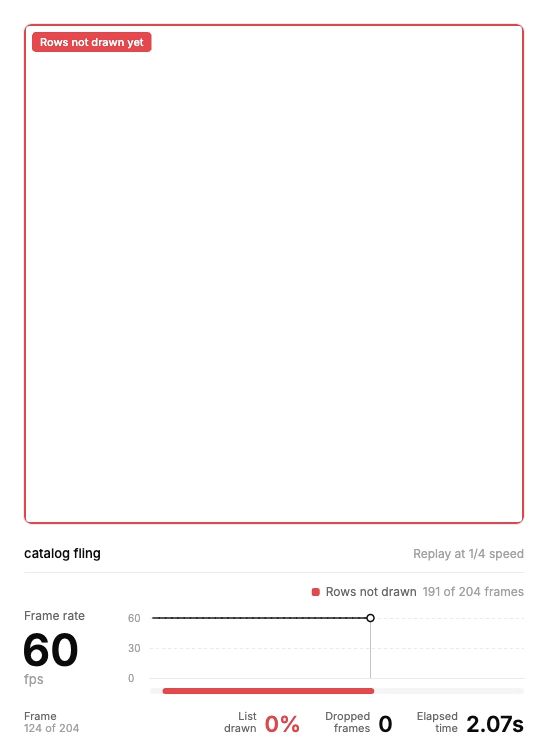
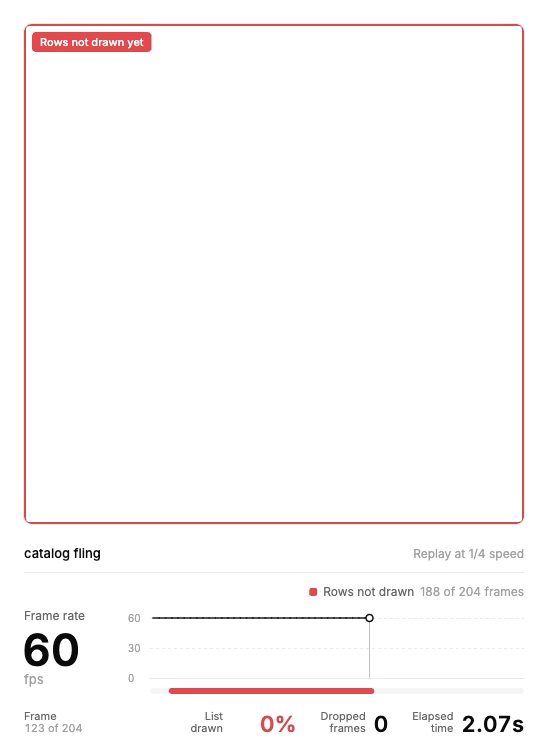
Replay readouts: tabular digits in fixed slots, so they don't shift as they change
Canvas text has no font-variant-numeric, so each digit is drawn in a cell
the width of a zero, and each stat's value sits in a slot as wide as its
largest value in the run. The labels stay put as the numbers change.

diff --git a/src/replay/encode.ts b/src/replay/encode.ts
@@ -91,6 +91,38 @@ async function renderInPage(args: ReplayInput & { slowdown: number; keyEvery: nu
     g.fillText(s, x, y);
     return g.measureText(s).width;
   };
+  // Numbers with every digit in a cell the width of a zero, like CSS's tabular-nums (canvas text
+  // has no such setting), so a readout doesn't shift as its digits change. A figure space
+  // (U+2007) is a blank digit.
+  const isDigit = (ch: string) => (ch >= '0' && ch <= '9') || ch === '\u2007';
+  const numWidth = (s: string, size: number, weight: number) => {
+    g.font = `${weight} ${size}px ${sans}`;
+    const cell = g.measureText('0').width;
+    return [...s].reduce((w, ch) => w + (isDigit(ch) ? cell : g.measureText(ch).width), 0);
+  };
+  const num = (
+    s: string,
+    x: number,
+    y: number,
+    { size = 12, weight = 400, fill = c.muted, align = 'left' as 'left' | 'right' } = {},
+  ) => {
+    const w = numWidth(s, size, weight);
+    const cell = g.measureText('0').width;
+    g.fillStyle = fill;
+    let cx = align === 'right' ? x - w : x;
+    for (const ch of s) {
+      if (isDigit(ch)) {
+        g.textAlign = 'center';
+        g.fillText(ch, cx + cell / 2, y);
+        cx += cell;
+      } else {
+        g.textAlign = 'left';
+        g.fillText(ch, cx, y);
+        cx += g.measureText(ch).width;
+      }
+    }
+    return w;
+  };
   const fit = (s: string, max: number) => {
     if (g.measureText(s).width <= max) return s;
     while (s.length > 1 && g.measureText(s + '…').width > max) s = s.slice(0, -1);
@@ -257,7 +289,7 @@ async function renderInPage(args: ReplayInput & { slowdown: number; keyEvery: nu
     const chartH = 60;
     const chartBottom = chartTop + chartH;
     text('Frame rate', left, chartTop + 2, { fill: c.muted });
-    text(fps === null ? '–' : String(fps), left - 2, chartTop + 48, {
+    num(fps === null ? '–' : String(fps), left - 2, chartTop + 48, {
       size: 44,
       weight: 600,
       fill: droppingNow ? c.bad : c.ink,
@@ -359,27 +391,36 @@ async function renderInPage(args: ReplayInput & { slowdown: number; keyEvery: nu
     // dropped frames and elapsed time, each with its label over two lines to its left. The
     // frame number is on the left of the same line.
     const statY = strip ? y + 38 : y + 50;
-    const stats: { words: [string, string]; value: string; bad?: boolean }[] = [];
+    // Each value sits in a slot as wide as its largest value in the run, so labels stay put.
+    const stats: { words: [string, string]; value: string; widest: string; bad?: boolean }[] = [];
     if (blankCount > 0)
-      stats.push({ words: ['List', 'drawn'], value: `${Math.round(drawn * 100)}%`, bad: blank });
-    stats.push({ words: ['Dropped', 'frames'], value: String(droppedSoFar), bad: droppedSoFar > 0 });
-    stats.push({ words: ['Elapsed', 'time'], value: secs(now) });
+      stats.push({
+        words: ['List', 'drawn'],
+        value: `${Math.round(drawn * 100)}%`,
+        widest: '100%',
+        bad: blank,
+      });
+    stats.push({
+      words: ['Dropped', 'frames'],
+      value: String(droppedSoFar),
+      widest: String(droppedBetween(-1, total)),
+      bad: droppedSoFar > 0,
+    });
+    stats.push({ words: ['Elapsed', 'time'], value: secs(now), widest: secs(total) });
     let sx2 = right;
     for (const st of [...stats].reverse()) {
-      const w = text(st.value, sx2, statY, {
-        size: 22,
-        weight: 600,
-        fill: st.bad ? c.bad : c.ink,
-        align: 'right',
-      });
-      const lx = sx2 - w - 8;
+      num(st.value, sx2, statY, { size: 22, weight: 600, fill: st.bad ? c.bad : c.ink, align: 'right' });
+      const lx = sx2 - numWidth(st.widest, 22, 600) - 8;
       text(st.words[0], lx, statY - 12, { size: 11, fill: c.muted, align: 'right' });
       text(st.words[1], lx, statY, { size: 11, fill: c.muted, align: 'right' });
       g.font = `400 11px ${sans}`;
       sx2 = lx - Math.max(...st.words.map((word) => g.measureText(word).width)) - 24;
     }
     text('Frame', left, statY - 12, { size: 11, fill: c.muted });
-    text(`${i + 1} of ${n}`, left, statY, { size: 11, fill: c.faint });
+    num(`${String(i + 1).padStart(String(n).length, '\u2007')} of ${n}`, left, statY, {
+      size: 11,
+      fill: c.faint,
+    });
 
     const frame = new VideoFrame(canvas, { timestamp: Math.round(args.timesMs[i]! * args.slowdown * 1000) });
     encoder.encode(frame, { keyFrame: i % args.keyEvery === 0 });
